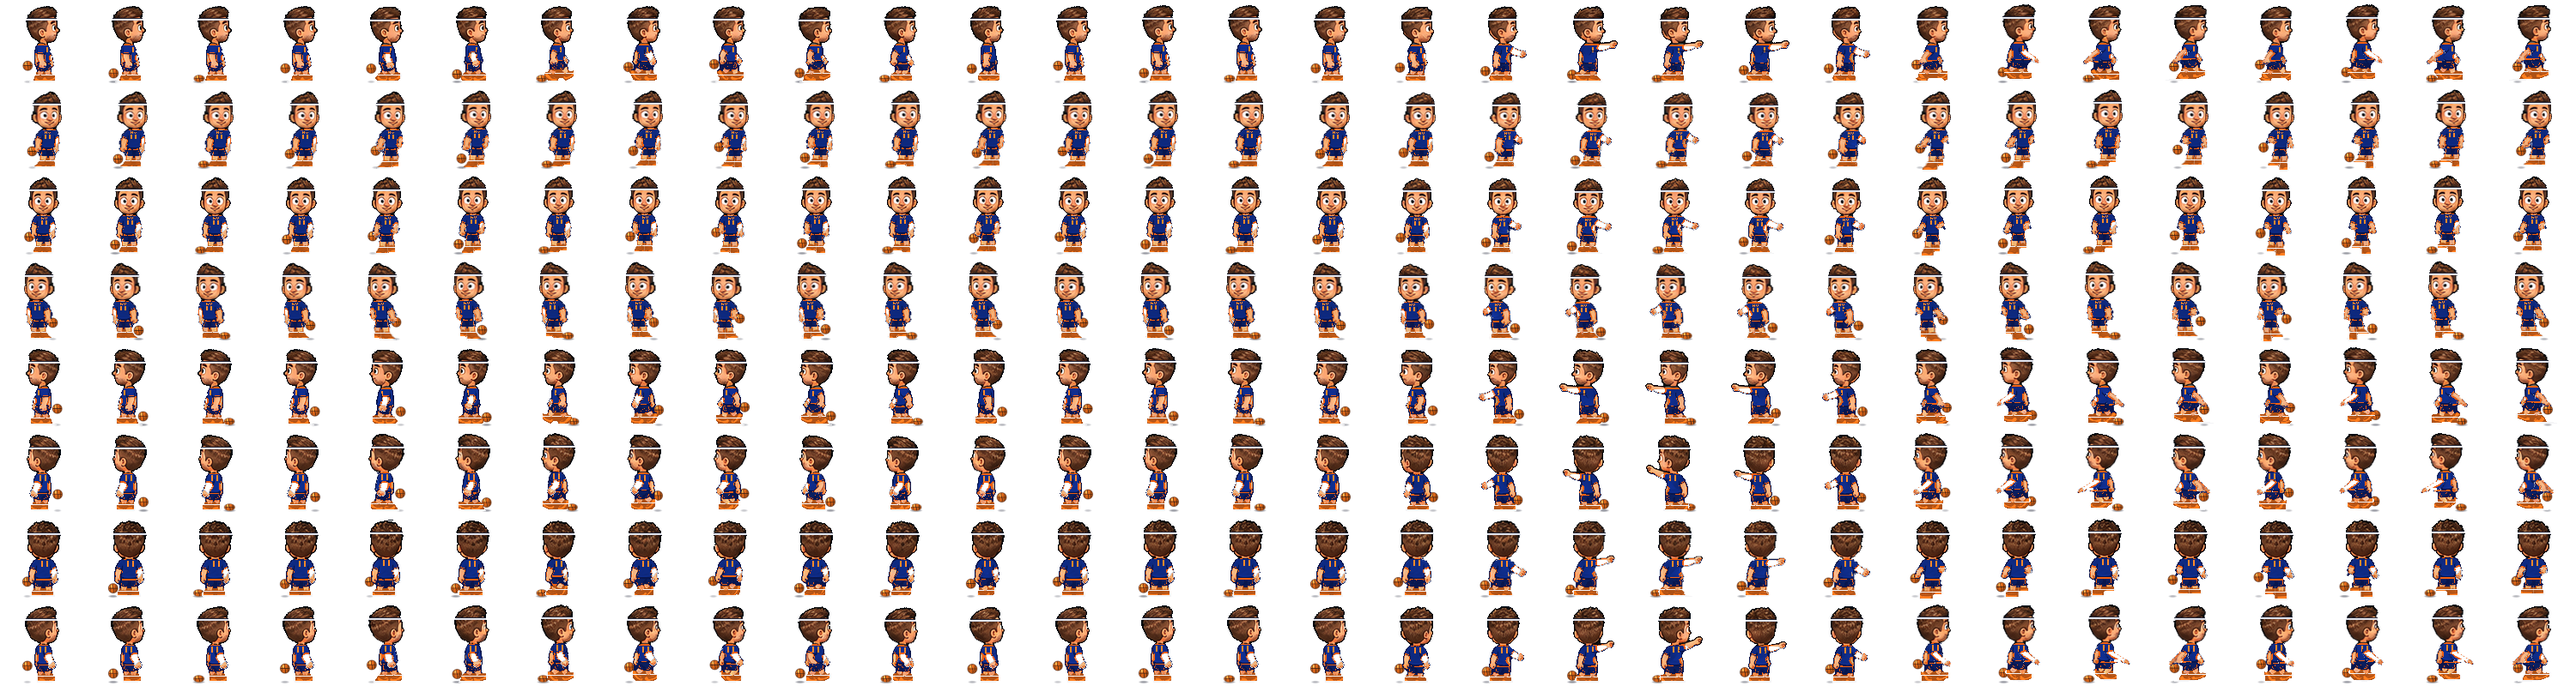
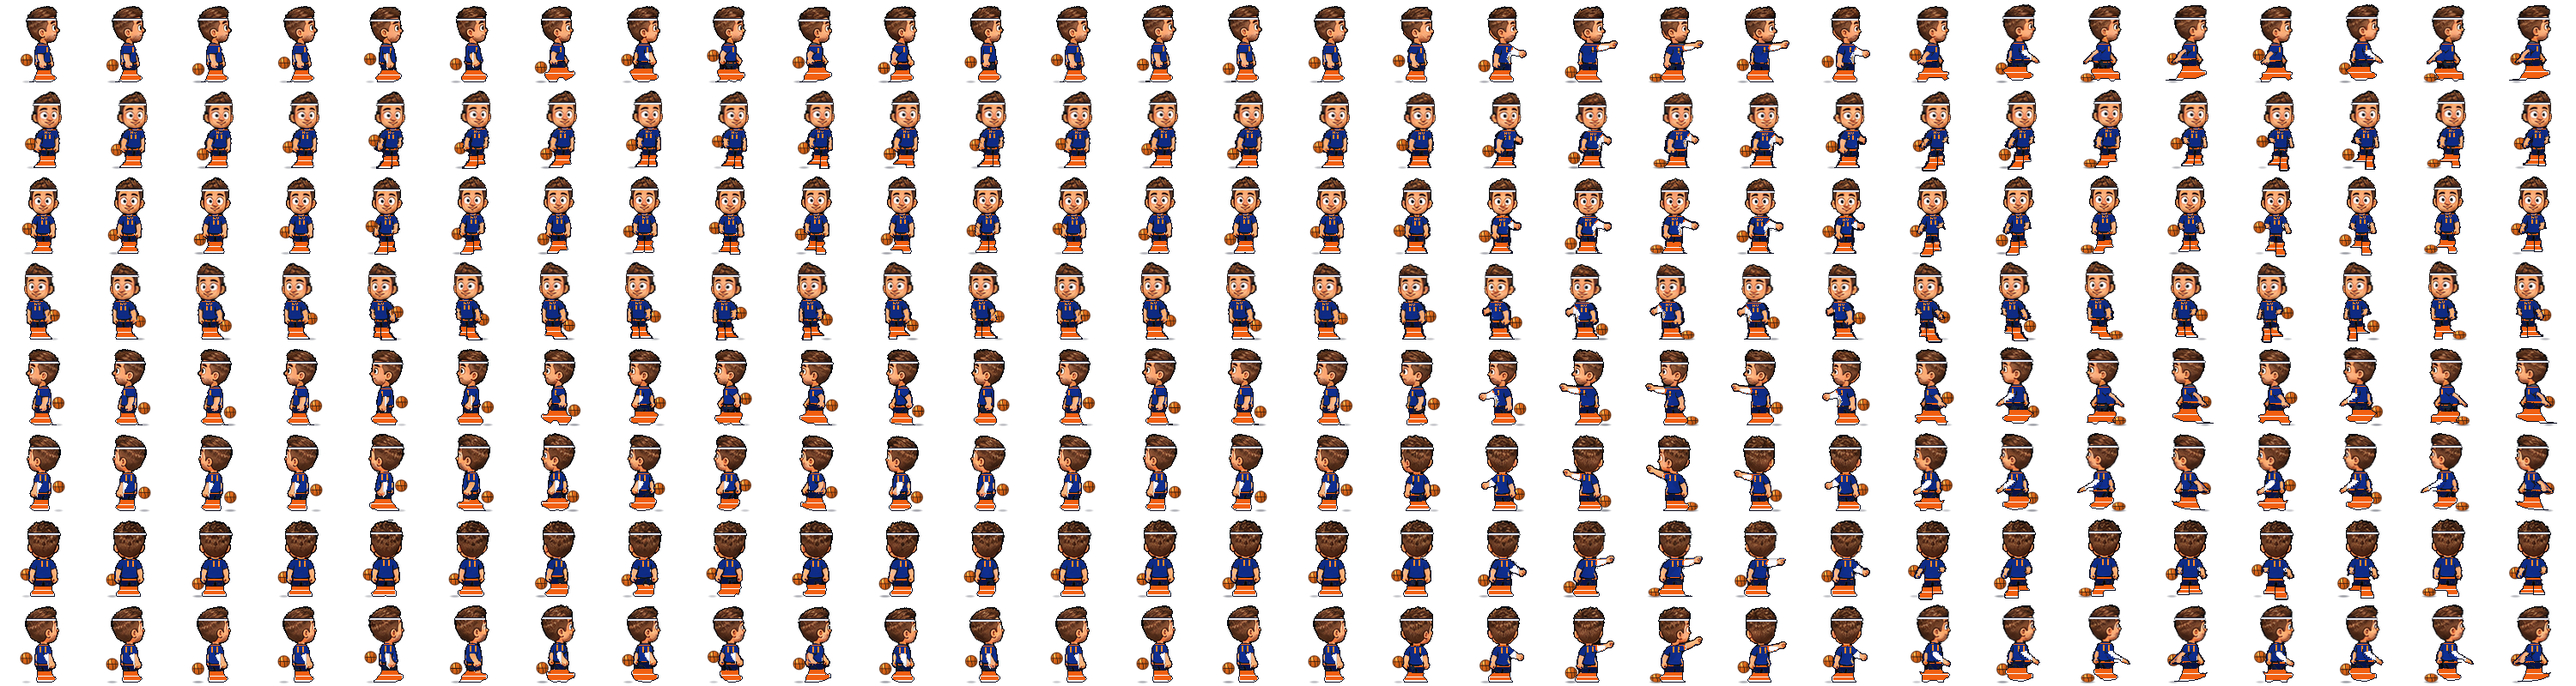
Clean up Basketball James edges, shoes, and the dribble.
Keep a dark silhouette so the jersey and sleeve do not pick up a white or orange fringe, paint the sneakers a flat jersey orange, and hold the idle dribble up by the hand with a slightly larger ball.

diff --git a/phaser-tag-client/tools/make_basketball_skin.py b/phaser-tag-client/tools/make_basketball_skin.py
@@ -64,7 +64,8 @@ TAG_SIDE = {"E": 1, "SE": 1, "S": 1, "SW": -1, "W": -1, "NW": -1, "N": 1, "NE": 
 
 # Feet line of the unpadded kid. The ball rests on this row.
 GROUND = 96.0
-BALL_R = 6.0
+# A touch bigger than a fist, still narrower than the torso.
+BALL_R = 7.3
 
 C = lambda *v: np.array(v, dtype=np.float64)  # noqa: E731
 NAVY = C(16, 48, 148)
@@ -126,15 +127,15 @@ def centered_pattern(pattern: tuple[str, ...], cx: float, y: int) -> tuple[int, 
     return int(round(cx - (width - 1) / 2)), y
 
 
-# Bounce amount: 0 = up in the hand, 1 = on the ground. Four-frame cycles
-# fall fast and leave the floor quicker than they arrive, so a 4-frame
-# loop still reads as a bounce. Tag holds the squash on the reach frame.
+# Bounce amount: 0 = up in the hand, 1 = on the ground.
+# Idle, breathe and walk (the skins-card preview) stay up by the hand.
+# A full rest on the floor reads as the ball just sitting by the feet.
+# Run and tag still bounce all the way down.
 def bounce_t(anim: str, index: int) -> float:
-    cycle = (0.0, 0.70, 1.0, 0.28)
-    if anim in ("idle", "breathe"):
-        return cycle[index % 4]
-    if anim in ("walk", "run"):
-        return cycle[index % 4]
+    if anim in ("idle", "breathe", "walk"):
+        return (0.0, 0.38, 0.62, 0.22)[index % 4]
+    if anim == "run":
+        return (0.0, 0.70, 1.0, 0.28)[index % 4]
     # tag: 6 frames, squash on the held reach (index 3)
     return (0.08, 0.42, 0.82, 1.0, 0.48, 0.14)[index]
 
@@ -166,30 +167,52 @@ def dribble_hand(f: np.ndarray, g: Geometry, direction: str) -> tuple[float, flo
     return best
 
 
-def sleeve_mask(f: np.ndarray, g: Geometry, arms: np.ndarray, hands: np.ndarray, direction: str) -> np.ndarray:
-    """The tagging arm, minus the hand. One component, or the tag-side half
-    when the arms touch (profiles)."""
-    h, w = f.shape[:2]
+def silhouette(alpha: np.ndarray) -> np.ndarray:
+    """Opaque pixels that touch transparency. These stay a dark outline
+    so a recolor can't leave a white or orange fringe."""
+    a = alpha
+    pad = np.pad(a, 1, constant_values=False)
+    neighbor_clear = (
+        ~pad[:-2, 1:-1] | ~pad[2:, 1:-1] | ~pad[1:-1, :-2] | ~pad[1:-1, 2:]
+    )
+    return a & neighbor_clear
+
+
+def tagging_arm(arms: np.ndarray, g: Geometry, direction: str) -> np.ndarray:
+    """The arm James tags with, or the tag-side half when both arms touch."""
+    h, w = arms.shape
     xx = np.arange(w)[None, :]
     tag = TAG_SIDE[direction]
-    comps = [c for c in components8(arms & ~hands) if c.sum() >= 12]
+    comps = [c for c in components8(arms) if c.sum() >= 12]
     if not comps:
         return np.zeros(arms.shape, dtype=bool)
+
     def score(c: np.ndarray) -> float:
-        ys, xs = np.nonzero(c)
+        _ys, xs = np.nonzero(c)
         return (float(xs.mean()) - g.head_cx) * tag
 
     best = max(comps, key=score)
     if score(best) < 1:
         return np.zeros(arms.shape, dtype=bool)
-    ys, xs = np.nonzero(best)
-    spans = xs.min() < g.head_cx - 3 and xs.max() > g.head_cx + 3
-    if spans:
+    _ys, xs = np.nonzero(best)
+    if xs.min() < g.head_cx - 3 and xs.max() > g.head_cx + 3:
         best = best & ((xx - g.head_cx) * tag > 1)
-    # grow back onto the arm so the shoulder isn't a skin island, but
-    # never across the midline onto the dribbling arm
-    within = arms & ~hands & ((xx - g.head_cx) * tag > -1)
-    return grow(best, within, 2)
+    within = arms & ((xx - g.head_cx) * tag > -1)
+    return grow(best, within, 1)
+
+
+def fist_mask(arm: np.ndarray, g: Geometry, direction: str) -> np.ndarray:
+    """The outer end of the tagging arm. Wide enough that the hand still
+    reads at the end of the sleeve on the reach frame."""
+    if not arm.any():
+        return np.zeros(arm.shape, dtype=bool)
+    h, w = arm.shape
+    xx = np.arange(w)[None, :]
+    tag = TAG_SIDE[direction]
+    ys, xs = np.nonzero(arm)
+    outward = (xs.astype(np.float64) - g.head_cx) * tag
+    cut = float(outward.max()) - 7.0
+    return arm & ((xx - g.head_cx) * tag >= cut) & (np.arange(h)[:, None] > g.neck)
 
 
 def ball_layer(size, cx: float, cy: float, rx: float, ry: float, shadow: float) -> np.ndarray:
@@ -263,70 +286,66 @@ def paint_uniform(f: np.ndarray, g: Geometry, direction: str) -> tuple[np.ndarra
     shins = a & sk & (yy >= g.hem) & ~arms & ~hands
     shoes = a & (yy >= g.hem + 2) & ~sk & ~shins & ~arms
 
-    rgb = np.where(jersey[..., None], shade(NAVY, L, 0.70, 1.18), rgb)
-    rgb = np.where(shorts[..., None], shade(NAVY, L, 0.58, 1.02), rgb)
-    # dark cloth outline on the outfit -> navy, so no teal halo remains
-    cloth_ink = outline & (yy > g.neck + 1) & (yy < g.hem + 6) & ~hands & ~face
-    rgb = np.where(cloth_ink[..., None], NAVY_DARK, rgb)
+    rim = silhouette(a)
+    # interior cloth only. The 1px rim is painted last, one dark colour,
+    # so anti-aliased shirt pixels can't turn into a speckled halo.
+    rgb = np.where((jersey & ~rim)[..., None], shade(NAVY, L, 0.78, 1.12), rgb)
+    rgb = np.where((shorts & ~rim)[..., None], shade(NAVY_DARK, L, 0.85, 1.15), rgb)
 
-    sleeve = sleeve_mask(f, g, arms, hands, direction)
+    arm = tagging_arm(arms | (outline & grow(arms, a, 1)), g, direction)
+    fist = fist_mask(arm & ~rim, g, direction)
+    # the original hand detector, so a hanging arm still ends in skin
+    fist = fist | (hands & arm & ~rim)
+    sleeve = arm & ~fist & ~rim & (yy > g.neck)
     if sleeve.any():
-        rgb = np.where(sleeve[..., None], shade(WHITE, L, 0.78, 1.05), rgb)
-        # wrist: sleeve pixels touching the hand, a shade darker
-        cuff = grow(hands, sleeve, 1) & sleeve
+        rgb = np.where(sleeve[..., None], shade(WHITE, L, 0.92, 1.02), rgb)
+        cuff = grow(fist, sleeve, 1) & sleeve
         rgb = np.where(cuff[..., None], WHITE_SHADE, rgb)
+    # put the fist back in the kid's own skin, on top of the sleeve
+    rgb = np.where(fist[..., None], f[..., :3].astype(np.float64), rgb)
 
-    # orange trim: neck, hem, armholes, shorts cuffs
-    jtop, jbot = torso_rows(jersey)
+    # orange trim sits one pixel in from the silhouette
+    inner = ~rim
+    jtop, jbot = torso_rows(jersey & inner)
     if jtop is not None:
-        neck = jersey & (yy <= jtop + 1)
-        hem = jersey & (yy >= jbot - 1)
+        neck = jersey & inner & (yy <= jtop + 1) & (yy > g.neck + 1)
+        hem = jersey & inner & (yy >= jbot - 1)
         rgb = np.where(neck[..., None], ORANGE, rgb)
         rgb = np.where(hem[..., None], ORANGE, rgb)
-    armhole = jersey & grow(arms | sleeve, a, 1)
-    rgb = np.where(armhole[..., None], ORANGE, rgb)
-    # shorts: bottom row of each leg + a 1px outer side stripe
+    # armhole: only the shoulder, not a trail of orange down the sleeve
+    shoulder = jersey & inner & grow(sleeve, a, 1) & (yy <= g.neck + 8)
+    rgb = np.where(shoulder[..., None], ORANGE, rgb)
     if shorts.any():
-        cuff_rows = np.zeros_like(shorts)
-        side = np.zeros_like(shorts)
-        for y in range(h):
-            span = row_span(shorts, y)
-            if span[0] is None:
-                continue
-            x0, x1 = span
-            side[y, x0] = True
-            side[y, x1] = True
-        ys = np.nonzero(shorts.any(axis=1))[0]
+        ys = np.nonzero((shorts & inner).any(axis=1))[0]
         if len(ys):
-            cuff_rows[ys[-1]] = shorts[ys[-1]]
+            cuff_rows = np.zeros_like(shorts)
+            cuff_rows[ys[-1]] = shorts[ys[-1]] & inner[ys[-1]]
             if len(ys) > 3:
-                cuff_rows[ys[-2]] = shorts[ys[-2]]
-        rgb = np.where((cuff_rows | side)[..., None], ORANGE, rgb)
+                cuff_rows[ys[-2]] = shorts[ys[-2]] & inner[ys[-2]]
+            rgb = np.where(cuff_rows[..., None], ORANGE, rgb)
 
-    # sneakers: orange upper, white sole and a side stripe, white toe
-    if shoes.any():
-        rgb = np.where(shoes[..., None], shade(SHOE_ORANGE, L, 0.75, 1.2), rgb)
-        for comp in components8(shoes):
+    # sneakers: the tan ankle and the dark shoe both become jersey orange.
+    # Shading from the original near-black pixels was reading as brown.
+    footwear = a & (yy >= g.hem) & ~jersey & ~shorts & ~arms & ~hands & ~fist
+    if footwear.any():
+        rgb = np.where((footwear & ~rim)[..., None], ORANGE, rgb)
+        for comp in components8(footwear):
             if comp.sum() < 4:
                 continue
             ys, xs = np.nonzero(comp)
             y1 = int(ys.max())
-            sole = comp & (yy >= y1 - 1)
+            sole = comp & ~rim & (yy >= y1 - 2)
             rgb = np.where(sole[..., None], SOLE, rgb)
-            # stripe across the upper third of the shoe
-            stripe_y = int(ys.min() + max(1, (y1 - ys.min()) * 0.35))
-            stripe = comp & (yy == stripe_y)
+            stripe_y = int(ys.min() + max(1, (y1 - int(ys.min())) * 0.42))
+            stripe = comp & ~rim & (yy == stripe_y)
             rgb = np.where(stripe[..., None], WHITE, rgb)
-            # toe: the facing end (front views: both outer corners; profiles: facing side)
             face_side = PROFILE.get(direction, FRONT.get(direction, 0))
             if face_side == 0:
-                # both shoes: outer pixels
-                left = xs.min()
-                right = xs.max()
-                toe = comp & ((xx <= left + 1) | (xx >= right - 1)) & (yy <= y1 - 2)
+                left, right = int(xs.min()), int(xs.max())
+                toe = comp & ~rim & ((xx <= left + 1) | (xx >= right - 1)) & (yy <= y1 - 3)
             else:
-                end = xs.max() if face_side > 0 else xs.min()
-                toe = comp & (np.abs(xx - end) <= 1) & (yy <= y1 - 2)
+                end = int(xs.max() if face_side > 0 else xs.min())
+                toe = comp & ~rim & (np.abs(xx - end) <= 1) & (yy <= y1 - 3)
             rgb = np.where(toe[..., None], WHITE, rgb)
 
     # headband: a white wrap on the hairline, above the eyes. Filled
@@ -347,6 +366,9 @@ def paint_uniform(f: np.ndarray, g: Geometry, direction: str) -> tuple[np.ndarra
         else:
             col = WHITE
         for x in range(x0, x1 + 1):
+            # the hair's own outline stays dark; painting it white is the halo
+            if rim[y, x]:
+                continue
             # stay inside the head: don't bridge a real gap beside an ear
             if x0 < x < x1 and not a[y, x]:
                 # only fill 1-2px holes
@@ -383,8 +405,16 @@ def paint_uniform(f: np.ndarray, g: Geometry, direction: str) -> tuple[np.ndarra
         flank = int(round(g.head_cx + side * 5 - (1 if side > 0 else 0)))
         stamp_pattern(rgb, chest, one, flank, num_y, ORANGE_HOT)
 
+    # one dark rim around the body, after every recolor, so jersey, shorts,
+    # sleeve and shoe edges match the other skins' crisp outline
+    body_rim = rim & (yy > g.neck + 1)
+    rgb = np.where(body_rim[..., None], INK, rgb)
+    soft = (out[..., 3] > 0) & (out[..., 3] < 240) & (yy > g.neck + 1)
+    rgb = np.where(soft[..., None], INK, rgb)
+    out[..., 3] = np.where(soft, np.uint8(255), out[..., 3])
+
     out[..., :3] = np.clip(rgb, 0, 255).astype(np.uint8)
-    return out, chest, hands
+    return out, chest, hands | fist
 
 
 def place_ball(body: np.ndarray, g: Geometry, direction: str, anim: str, index: int) -> tuple[float, float, float, float, bool]:
@@ -402,8 +432,8 @@ def place_ball(body: np.ndarray, g: Geometry, direction: str, anim: str, index: 
     # drag the ball sideways; it should only bounce. Profiles and the
     # back sit a little further out so the rear foot doesn't swallow the
     # ball, and the tag / run clips nudge it out with the wider stance.
-    outward = {"E": 17.2, "SE": 16.0, "S": 16.4, "SW": 16.0,
-               "W": 17.2, "NW": 16.6, "N": 19.2, "NE": 16.6}[direction]
+    outward = {"E": 18.4, "SE": 17.2, "S": 17.6, "SW": 17.2,
+               "W": 18.4, "NW": 17.8, "N": 20.2, "NE": 17.8}[direction]
     if anim == "tag":
         outward += 2.4
     elif anim == "run":
@@ -411,9 +441,9 @@ def place_ball(body: np.ndarray, g: Geometry, direction: str, anim: str, index: 
     bx = g.head_cx + side * outward
     if squashed:
         bx += side * (rx - BALL_R) * 0.4
-    # Top of the bounce meets the hand, but never rises above the hip.
-    # The run clip swings that arm up to the chest; a dribble stays low.
-    cy_hand = float(np.clip(hy + 3.2, g.hem - 11.0, g.hem - 2.0))
+    # Top of the bounce sits in the hand. Clamped so a raised run arm
+    # can't carry the ball up to the chest.
+    cy_hand = float(np.clip(hy + 1.2, g.hem - 18.0, g.hem - 8.0))
     cy_ground = GROUND - ry
     cy = cy_hand + (cy_ground - cy_hand) * (t ** 1.15)
     margin = 1.2
